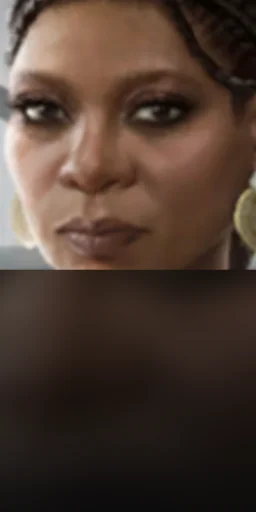
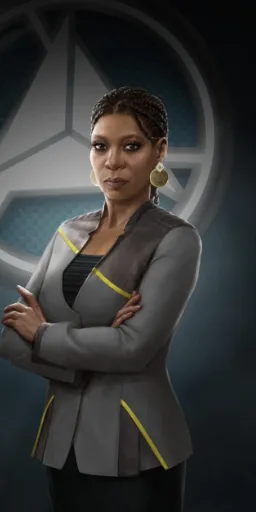
Ma puissance : portraits nets de Nakato Kaine, Yuri Grom et Jerome Archer (remplacent les vignettes floues)

diff --git a/index.html b/index.html
@@ -16,7 +16,7 @@
     <script src="https://cdn.jsdelivr.net/npm/@supabase/supabase-js@2"></script>
     <script src="shared-utils.js?v=3"></script>
     <script src="quoifaire.js?v=5"></script>
-    <script src="qgsuivi.js?v=30"></script>
+    <script src="qgsuivi.js?v=31"></script>
     <script src="son.js?v=1"></script>
     <script src="navigation.js?v=14"></script>
 
